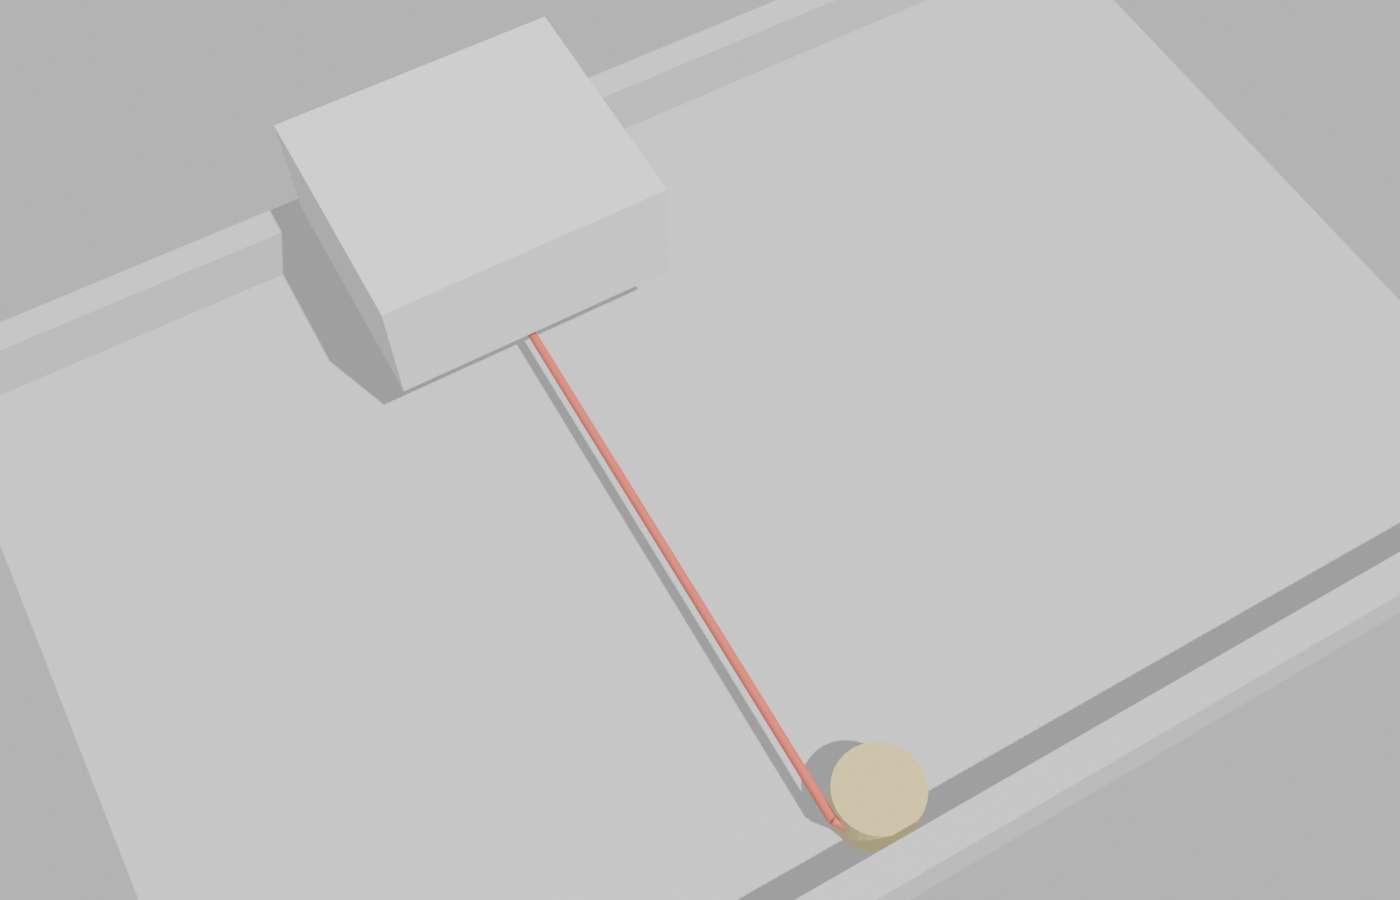
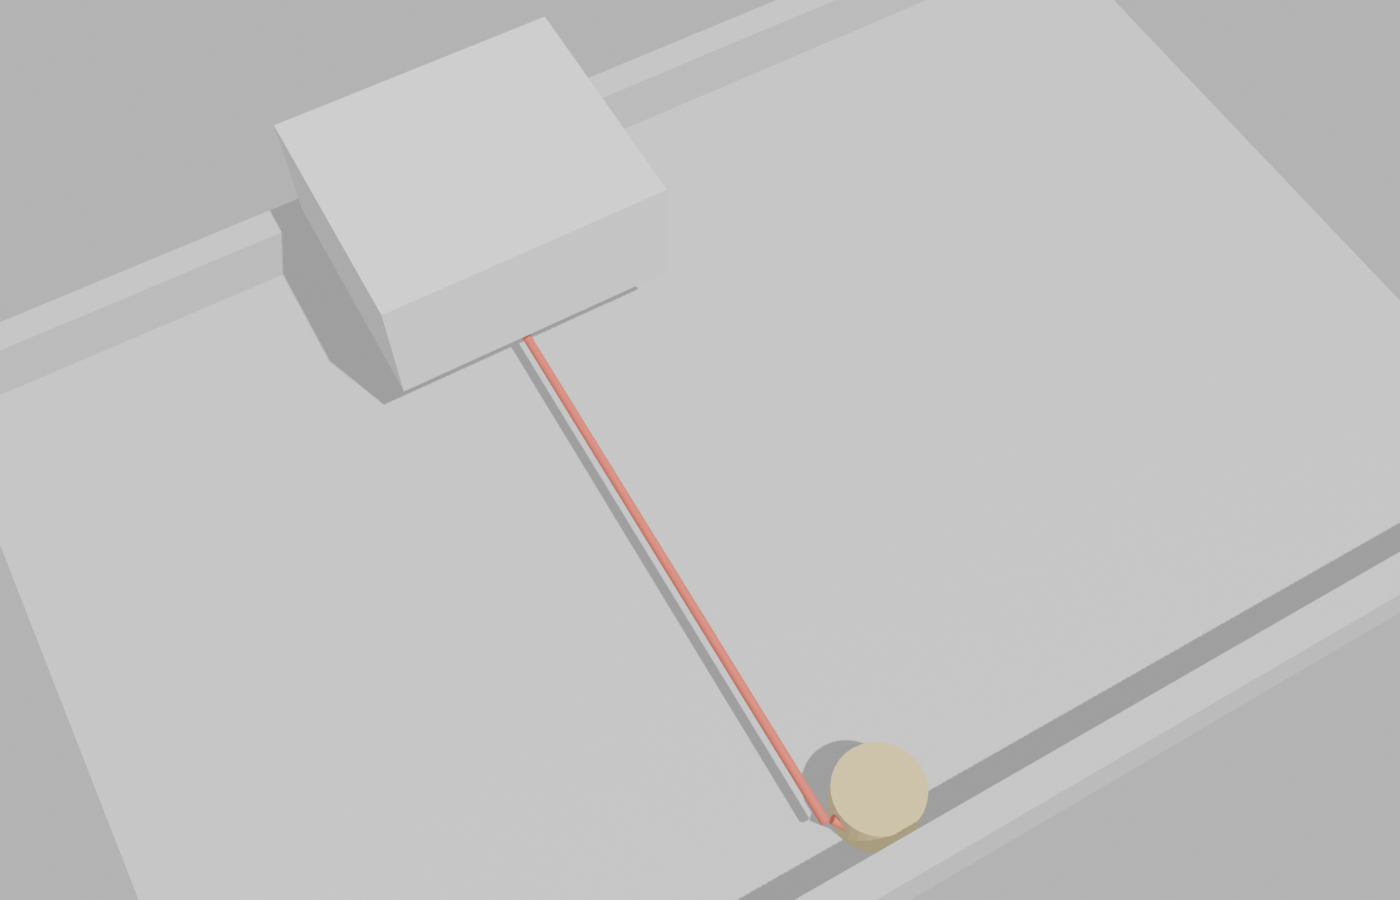
Парус сдвинут западнее дорожки (замечание юзера: упирался в ролик) — проходит мимо шейки с зазором, ход полный

Changed region(s): [[0.3686, 0.3733, 0.6143, 0.9333]]

diff --git a/parus_demo.py b/parus_demo.py
@@ -80,7 +80,7 @@ box("WallS", 5, 80, -25, -23.2, 1.0, 4.5, M_BASE)
 
 # ---- тележка + ПАРУС (жёсткая пластина, без осей и прорезей) ----
 cart = box("Cart", XL - 8, XL + 8, -7, 7, 5.0, 12.0, M_CART)
-box("Sail", XL - 1.0, XL + 1.0, -HP, HP, 1.2, 5.2, M_SAIL, parent=cart)
+box("Sail", XL - 1.9, XL - 0.5, -HP, HP, 1.2, 5.2, M_SAIL, parent=cart)  # западнее дорожки, мимо роликов
 
 # ---- ролики у бортов + статичные части нитей (каналы к мотору) ----
 for sg, nm in ((1, 'A'), (-1, 'B')):
@@ -109,7 +109,7 @@ for fr in range(1, 121):
         z = ZA if sg > 0 else ZB
         y_roll = sg * RY                        # сход нити со своего ролика
         y_tie = cy - sg * HP                    # КРЕСТ: A к югу паруса, B к северу
-        ob.location = (XL, (y_roll + y_tie) / 2, z)
+        ob.location = (XL - 0.35, (y_roll + y_tie) / 2, z)
         ob.scale = (1, 1, max(abs(y_roll - y_tie), 0.5))
         ob.rotation_euler = (math.pi / 2, 0, 0)
         ob.keyframe_insert("location", frame=fr)
